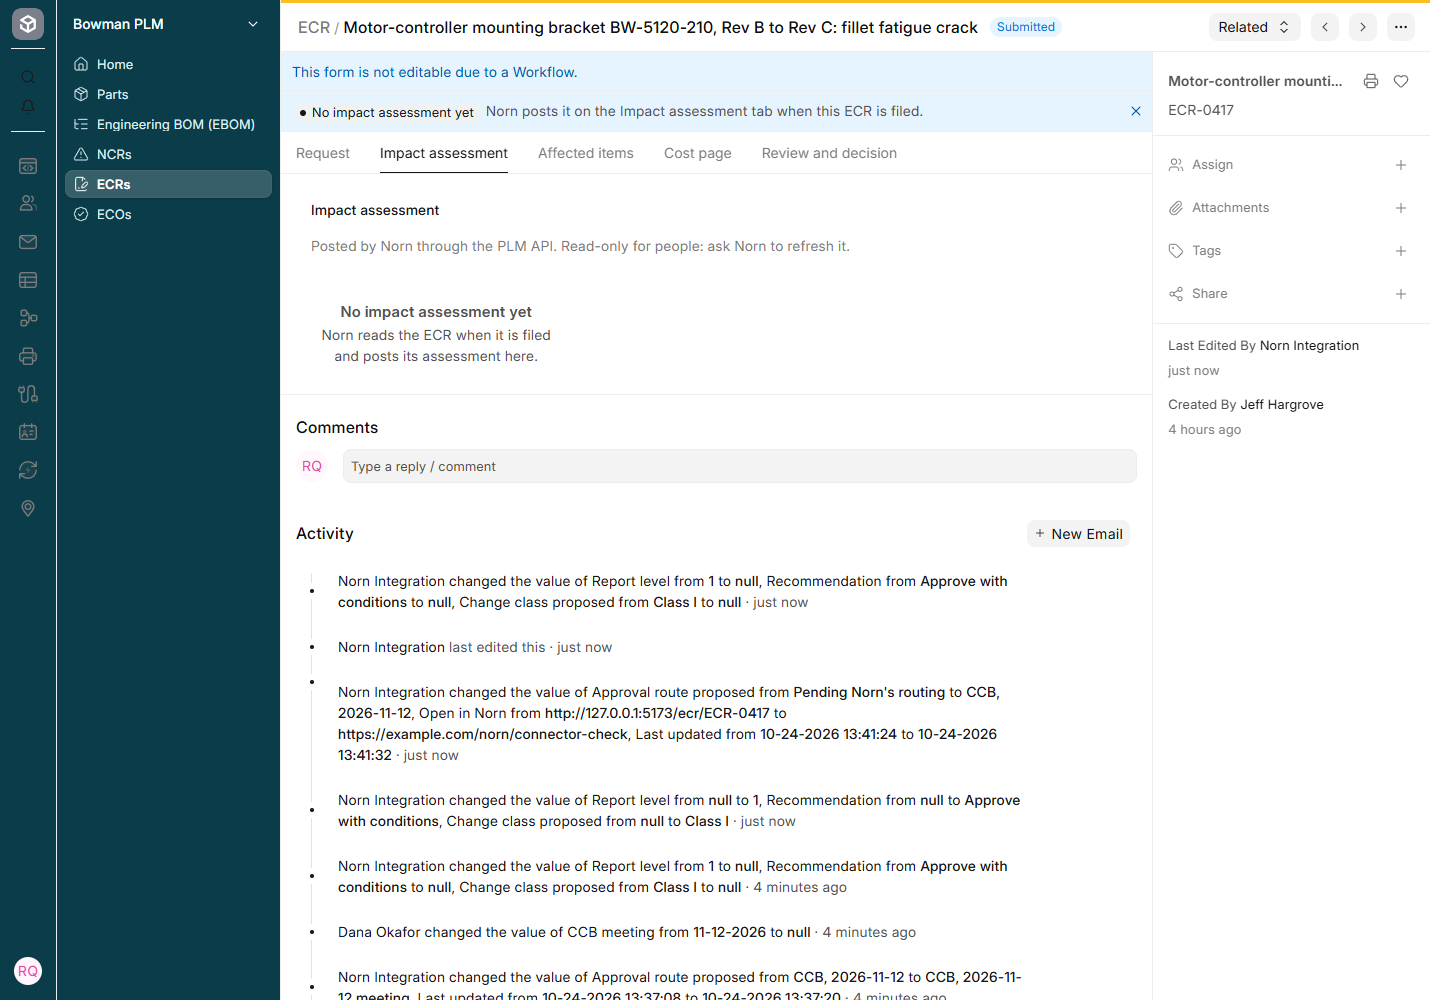
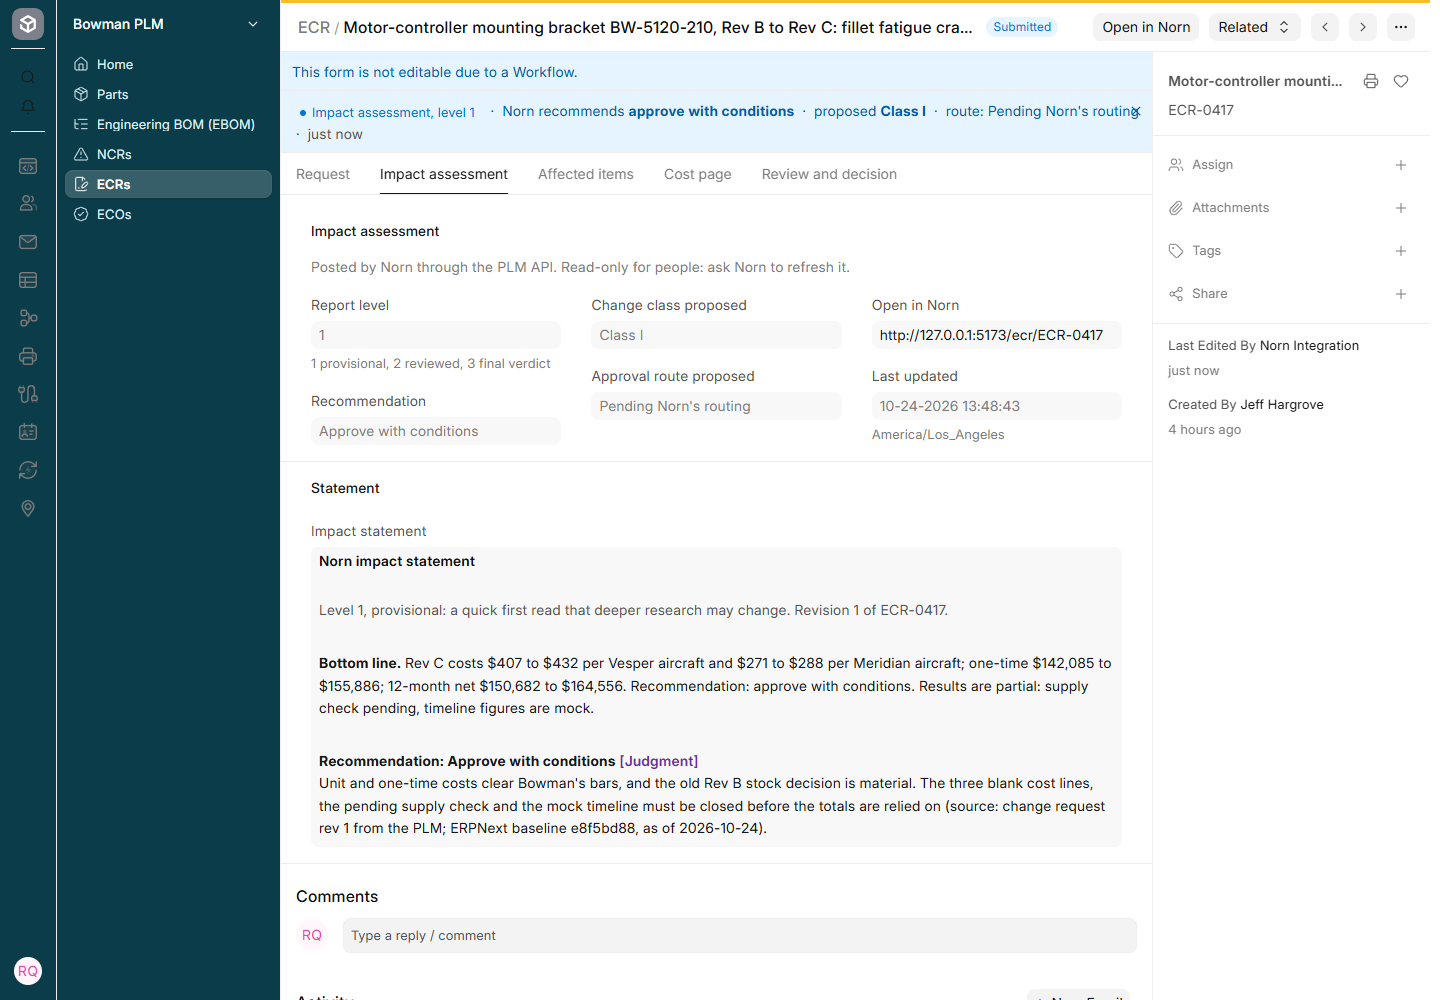
Level 1 README, a screenshot that waits for the statement, and the end-to-end screenshot of ECR-0417

diff --git a/norn/workers/src/level1/screenshot.ts b/norn/workers/src/level1/screenshot.ts
@@ -11,7 +11,7 @@ import { userPasswordFromEnv } from './plm.ts';
 
 const EDGE = process.env.EDGE_PATH ?? 'C:/Program Files (x86)/Microsoft/Edge/Application/msedge.exe';
 
-export async function shootImpactTab(opts: { ecr: string; out: string; user?: string; plmUrl?: string; fullPage?: boolean }): Promise<string> {
+export async function shootImpactTab(opts: { ecr: string; out: string; user?: string; plmUrl?: string; fullPage?: boolean; expect?: string }): Promise<string> {
   const user = opts.user ?? 'rafael.quintero@bowman-aviation.example';
   const api = (opts.plmUrl ?? process.env.PLM_URL ?? 'http://127.0.0.1:8082').replace(/\/+$/, '');
   const site = api.replace('127.0.0.1', 'localhost');
@@ -26,10 +26,14 @@ export async function shootImpactTab(opts: { ecr: string; out: string; user?: st
     const ctx = await browser.newContext({ viewport: { width: 1440, height: 1000 }, deviceScaleFactor: 1 });
     await ctx.addCookies([{ name: 'sid', value: sid, url: site }]);
     const page = await ctx.newPage();
-    await page.goto(`${site}/desk/ecr/${encodeURIComponent(opts.ecr)}`, { waitUntil: 'networkidle', timeout: 60_000 });
-    await page.waitForTimeout(2500);
-    await page.getByRole('tab', { name: 'Impact assessment' }).click();
-    await page.waitForTimeout(1200);
+    // Load the tab; if it should show a statement and does not (the form was cached before the write), load it again.
+    for (let attempt = 1; ; attempt++) {
+      await page.goto(`${site}/desk/ecr/${encodeURIComponent(opts.ecr)}`, { waitUntil: 'networkidle', timeout: 60_000 });
+      await page.waitForTimeout(2500);
+      await page.getByRole('tab', { name: 'Impact assessment' }).click();
+      await page.waitForTimeout(1200);
+      if (!opts.expect || (await page.locator('body').innerText()).includes(opts.expect) || attempt >= 3) break;
+    }
     await page.screenshot({ path: out, fullPage: opts.fullPage ?? true });
   } finally {
     await browser.close();

diff --git a/norn/workers/src/level1/e2e.ts b/norn/workers/src/level1/e2e.ts
@@ -163,7 +163,7 @@ try {
   const { shootImpactTab } = await import('./screenshot.ts');
   let shotPath = '';
   try {
-    shotPath = await shootImpactTab({ ecr: ECR, out: shot });
+    shotPath = await shootImpactTab({ ecr: ECR, out: shot, expect: 'Bottom line' });
     say(`screenshot saved`);
   } catch (e) {
     say(`screenshot failed: ${(e as Error).message}`);

diff --git a/norn/workers/src/level1/README.md b/norn/workers/src/level1/README.md
@@ -1,0 +1,82 @@
+# Level 1 impact statement (#42) and the PLM ingest source (#40)
+
+When an ECR's current change-request revision has a finished `s2_cost` check run and no Level 1
+statement, one Claude session reads Norn's impact numbers and posts a Level 1 statement. A publisher
+then writes that statement onto the ECR in Bowman's PLM. Three processes, none of which writes to
+ERPNext:
+
+| process | start (from `norn/`, with `NORN_DB` set) | does |
+|---|---|---|
+| dispatcher | `npm run level1:dispatcher -w @norn/workers` | starts one session per ECR revision through `norn/runner` |
+| publisher | `npm run level1:publisher -w @norn/workers` | writes each statement to the PLM through `norn/connectors/plm` |
+| PLM ingest | `NORN_INGEST_SOURCE=plm npm run ingest -w @norn/workers` | `listEcrs()` then `watchEcrs()` and `readChangeRequest()` into the existing `ingest_ecr` path |
+
+They also need Norn's MCP server for the same database (`npm run start -w @norn/mcp`, same `NORN_DB`)
+and the PLM credentials (`PLM_URL`, `PLM_API_KEY`, `PLM_API_SECRET`; `ENV_FILE` points at the `.env`
+of the main checkout, which a worktree does not have). Run ONE dispatcher per database.
+
+## The dispatcher (`dispatcher.ts`, `plan.ts`, `settings.ts`)
+
+- Job: role `level1-statement` (the MCP server lets a role named `level<N>-...` post a statement at
+  level N only), actor `agent:norn/level1/<jobId>`, no onBehalfOf, spawnedBy `norn: check_run <id>`.
+  `mcpServers` come from `nornMcpFor()` (default `headersHelper` delivery, the token is never on the
+  command line), scoped to that ECR. `allowedTools` are Norn's MCP tools only.
+- Defaults: 12 turns, 240 s, 2 attempts per revision. Settings: `NORN_L1_MODEL` (default
+  `claude-haiku-5-5`), `NORN_L1_MAX_TURNS`, `NORN_L1_TIMEOUT_MS`, `NORN_L1_MAX_ATTEMPTS`,
+  `NORN_L1_RETRY_DELAY_MS`, `NORN_L1_CONCURRENCY`, `NORN_L1_POLL_MS`.
+- No duplicates. `plan.ts` is pure (a snapshot in, dispatch or skip out). The record of what was
+  started is `agent_event`: every runner event is stored there through `record_agent_events`
+  (`agent-events.ts`), and a job id names its ECR revision and attempt. So a restart starts nothing
+  twice, and no extra table is needed. The key is the change request's revision, not the ECR's own
+  counter, so a baseline-only re-check (ERP prices moved, an assumption changed) starts nothing. A
+  session that failed or ended without a statement is retried, up to the attempt cap, under a new job id.
+- Events also go to a JSONL file (`teeSink`) as a fallback if the database is unreachable.
+
+## The agent (`prompt.ts`)
+
+It calls `get_ecr`, `get_impact` and `list_assumptions`, then `post_impact_statement` at level 1:
+the unit cost per program, the one-time cost and the 12-month total, each p10/p50/p90 copied from
+`get_impact`; the top drivers; flagged assumptions and blank lines that need an estimate; and a
+recommendation marked judgment. ICD 203 wording and Bowman's posting standards (materiality, evidence
+classes, words to avoid) are in the system prompt. The standards are constants copied from
+`bowman/norn-config/bowman.config.ts` on 2026-10-24 (`norn/config` was not on this branch); read
+them from the loaded config when it is.
+
+A change class is only ever the agent's own proposal, marked judgment. The approval route is
+"Pending Norn's routing". The seam is `routing.ts`: `routeFor(ecr, assessment)` returns nothing now;
+#75 fills it in there and nowhere else (the dispatcher and the publisher both call it).
+
+## The publisher (`publisher.ts`, `format.ts`, `plm.ts`)
+
+Writes the seven `impact_*` fields with the connector's `writeImpact()` and nothing else (a comment
+only if `NORN_PUBLISH_COMMENT=1`). `impact_statement` is self-contained HTML (inline styles, a table
+of headline numbers, drivers, assumptions, evidence tags) that reads without opening Norn. Its last
+line carries `Ref <statement id>.<digest>`.
+
+Idempotent: before every write it reads the ECR's fields from the PLM. If the ref is there and the
+plain fields match, nothing is written. A restart, a second publisher or a reset scratch database
+therefore writes nothing twice. A person editing a plain field gets it put back. Mock numbers
+(s3, s4 placeholders) never reach the PLM as a headline. `NORN_PUBLISH_ECRS=ECR-0417` limits it.
+
+## The PLM ingest (`ingest-plm.ts`)
+
+Lists the PLM's ECRs once and takes in every one in a wanted state (`NORN_PLM_STATES`, default
+Submitted, In CM Review, CCB Review; `NORN_PLM_ECRS` limits it), then watches the PLM
+(`NORN_PLM_INTERVAL_MS`, default 1000) and reports each changed ECR. Norn's own writes to the PLM
+are not offered back by the watcher. `ingest.ts` hands `ingestOnce` and `itemOf` in, because it is
+the entry module and importing it back would deadlock on its top-level await.
+
+## Helpers
+
+- `plm-impact.ts read|clear ECR-0417`: show or empty the seven fields (put the demo record back).
+- `screenshot.ts ECR-0417 out.png`: headless Edge on the PLM's Impact assessment tab.
+- `e2e.ts` (`npm run level1:e2e -w @norn/workers`): the whole chain on the scratch database `norn-l1`
+  (wiped on every run; the name is a literal on purpose), timed. It refuses to start when ECR-0417
+  already carries an impact assessment, restarts the dispatcher and publisher to prove nothing is done
+  twice, screenshots the tab and clears the seven fields. It spends one real Claude session.
+  Other sessions that write to the same demo ECR (`bowman/plm/verify.ts`) will collide with it.
+
+## Tests
+
+`npm run test:level1 -w @norn/workers` (offline): dispatch rules and idempotency, the prompt,
+statement-to-PLM formatting, publisher idempotency.
